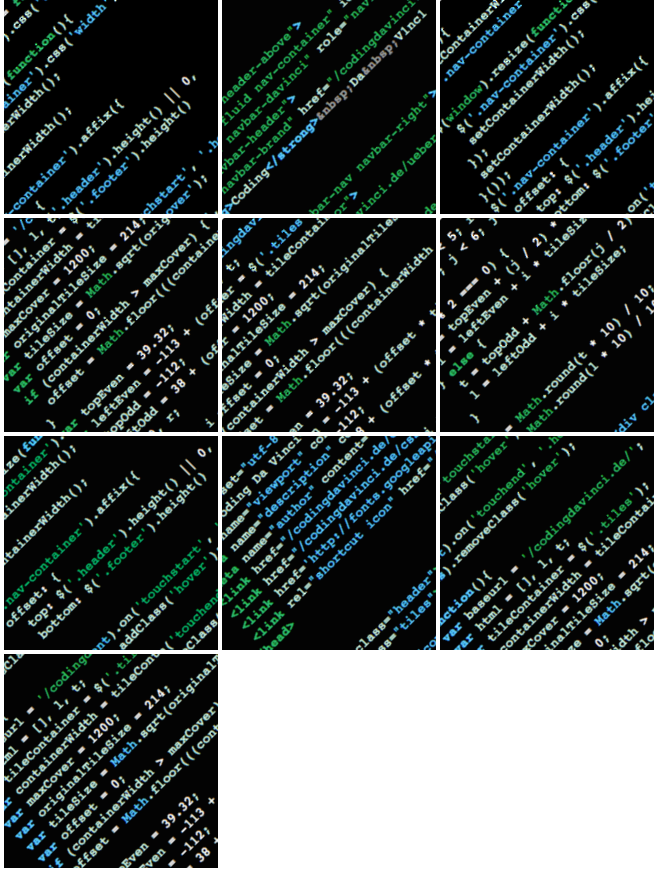
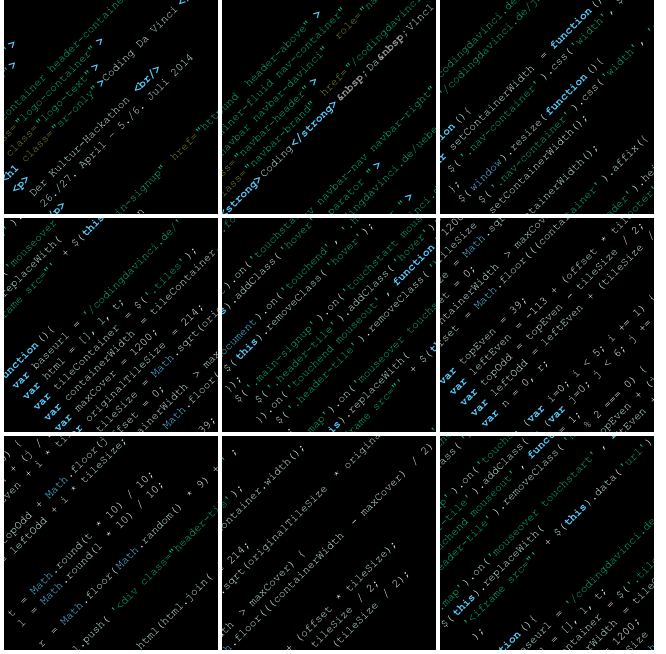
Add new and retina code tiles

diff --git a/css/codingdavinci.css b/css/codingdavinci.css
@@ -225,7 +225,7 @@ a.main-signup:hover {
   height: 31px;
   margin-bottom: 0.4em;
   margin-top: 0.6em;
-  margin-left: 1em;
+  margin-left: 0;
   display: block;
 }
 
@@ -593,11 +593,11 @@ h5 {
   left: 0;
   background-repeat: no-repeat;
   background-position: center center;
-  -webkit-transform: scale(1.02);
-     -moz-transform: scale(1.02);
-      -ms-transform: scale(1.02);
-       -o-transform: scale(1.02);
-          transform: scale(1.02);
+  -webkit-transform: scale(1.04);
+     -moz-transform: scale(1.04);
+      -ms-transform: scale(1.04);
+       -o-transform: scale(1.04);
+          transform: scale(1.04);
 }
 
 /* front pane, placed above back */
@@ -607,11 +607,11 @@ h5 {
 
 /* back, initially hidden pane */
 .back {
-  -webkit-transform: scale(1.02) rotateY(180deg);
-     -moz-transform: scale(1.02) rotateY(180deg);
-      -ms-transform: scale(1.02) rotateY(180deg);
-       -o-transform: scale(1.02) rotateY(180deg);
-          transform: scale(1.02) rotateY(180deg);
+  -webkit-transform: scale(1.04) rotateY(180deg);
+     -moz-transform: scale(1.04) rotateY(180deg);
+      -ms-transform: scale(1.04) rotateY(180deg);
+       -o-transform: scale(1.04) rotateY(180deg);
+          transform: scale(1.04) rotateY(180deg);
   z-index: 9;
 }
 
@@ -656,20 +656,42 @@ h5 {
 .cdv-tiles8 { background-position: -876px -1090px; width: 214px; height: 214px; }
 .cdv-tiles9 { background-position: -4px -1308px; width: 214px; height: 214px; }
 
-.code-tile-1, .code-tile-10, .code-tile-2, .code-tile-3, .code-tile-4, 
-.code-tile-5, .code-tile-6, .code-tile-7, .code-tile-8, .code-tile-9
+.code-tile1, .code-tile2, .code-tile3, .code-tile4, .code-tile5,
+.code-tile6, .code-tile7, .code-tile8, .code-tile9
 { display: block; background: url('../img/tiles/code_tile.png') no-repeat; }
 
-.code-tile-1 { background-position: -4px -0px; width: 214px; height: 214px; }
-.code-tile-10 { background-position: -222px -0px; width: 214px; height: 214px; }
-.code-tile-2 { background-position: -440px -0px; width: 214px; height: 214px; }
-.code-tile-3 { background-position: -4px -218px; width: 214px; height: 214px; }
-.code-tile-4 { background-position: -222px -218px; width: 214px; height: 214px; }
-.code-tile-5 { background-position: -440px -218px; width: 214px; height: 214px; }
-.code-tile-6 { background-position: -4px -436px; width: 214px; height: 214px; }
-.code-tile-7 { background-position: -222px -436px; width: 214px; height: 214px; }
-.code-tile-8 { background-position: -440px -436px; width: 214px; height: 214px; }
-.code-tile-9 { background-position: -4px -654px; width: 214px; height: 214px; }
+.code-tile1 { background-position: -4px -0px; width: 214px; height: 214px; }
+.code-tile2 { background-position: -222px -0px; width: 214px; height: 214px; }
+.code-tile3 { background-position: -440px -0px; width: 214px; height: 214px; }
+.code-tile4 { background-position: -4px -218px; width: 214px; height: 214px; }
+.code-tile5 { background-position: -222px -218px; width: 214px; height: 214px; }
+.code-tile6 { background-position: -440px -218px; width: 214px; height: 214px; }
+.code-tile7 { background-position: -4px -436px; width: 214px; height: 214px; }
+.code-tile8 { background-position: -222px -436px; width: 214px; height: 214px; }
+.code-tile9 { background-position: -440px -436px; width: 214px; height: 214px; }
+
+@media only screen and (min--moz-device-pixel-ratio: 2),
+only screen and (-o-min-device-pixel-ratio: 2/1),
+only screen and (-webkit-min-device-pixel-ratio: 2),
+only screen and (min-device-pixel-ratio: 2) {
+  .back {
+    background-size: 214px 214px;
+  }
+
+  .code-tile1, .code-tile2, .code-tile3, .code-tile4, .code-tile5,
+  .code-tile6, .code-tile7, .code-tile8, .code-tile9 {
+    background: url('../img/tiles/code_tile-2x.png') no-repeat;
+  }
+  .code-tile1 { background-position: -4px -0px; }
+  .code-tile2 { background-position: -436px -0px; }
+  .code-tile3 { background-position: -868px -0px; }
+  .code-tile4 { background-position: -4px -432px; }
+  .code-tile5 { background-position: -436px -432px; }
+  .code-tile6 { background-position: -868px -432px; }
+  .code-tile7 { background-position: -4px -864px; }
+  .code-tile8 { background-position: -436px -864px; }
+  .code-tile9 { background-position: -868px -864px; }
+}
 
 .time-table {
   position: relative;

diff --git a/js/codingdavinci.js b/js/codingdavinci.js
@@ -66,7 +66,7 @@
 
       r = Math.floor(Math.random() * 9) + 1;
 
-      html.push('<div class="header-tile" style="left:' + l + 'px;top:' + t + 'px;"><div class="flipper" style="transition-delay:0s;"><div class="front cdv-tiles'+ n + '"></div><div class="back code-tile-' + r + '"></div></div></div>');
+      html.push('<div class="header-tile" style="left:' + l + 'px;top:' + t + 'px;"><div class="flipper" style="transition-delay:0s;"><div class="front cdv-tiles'+ n + '"></div><div class="back code-tile' + r + '"></div></div></div>');
     }
   }
   tileContainer.html(html.join(''));
